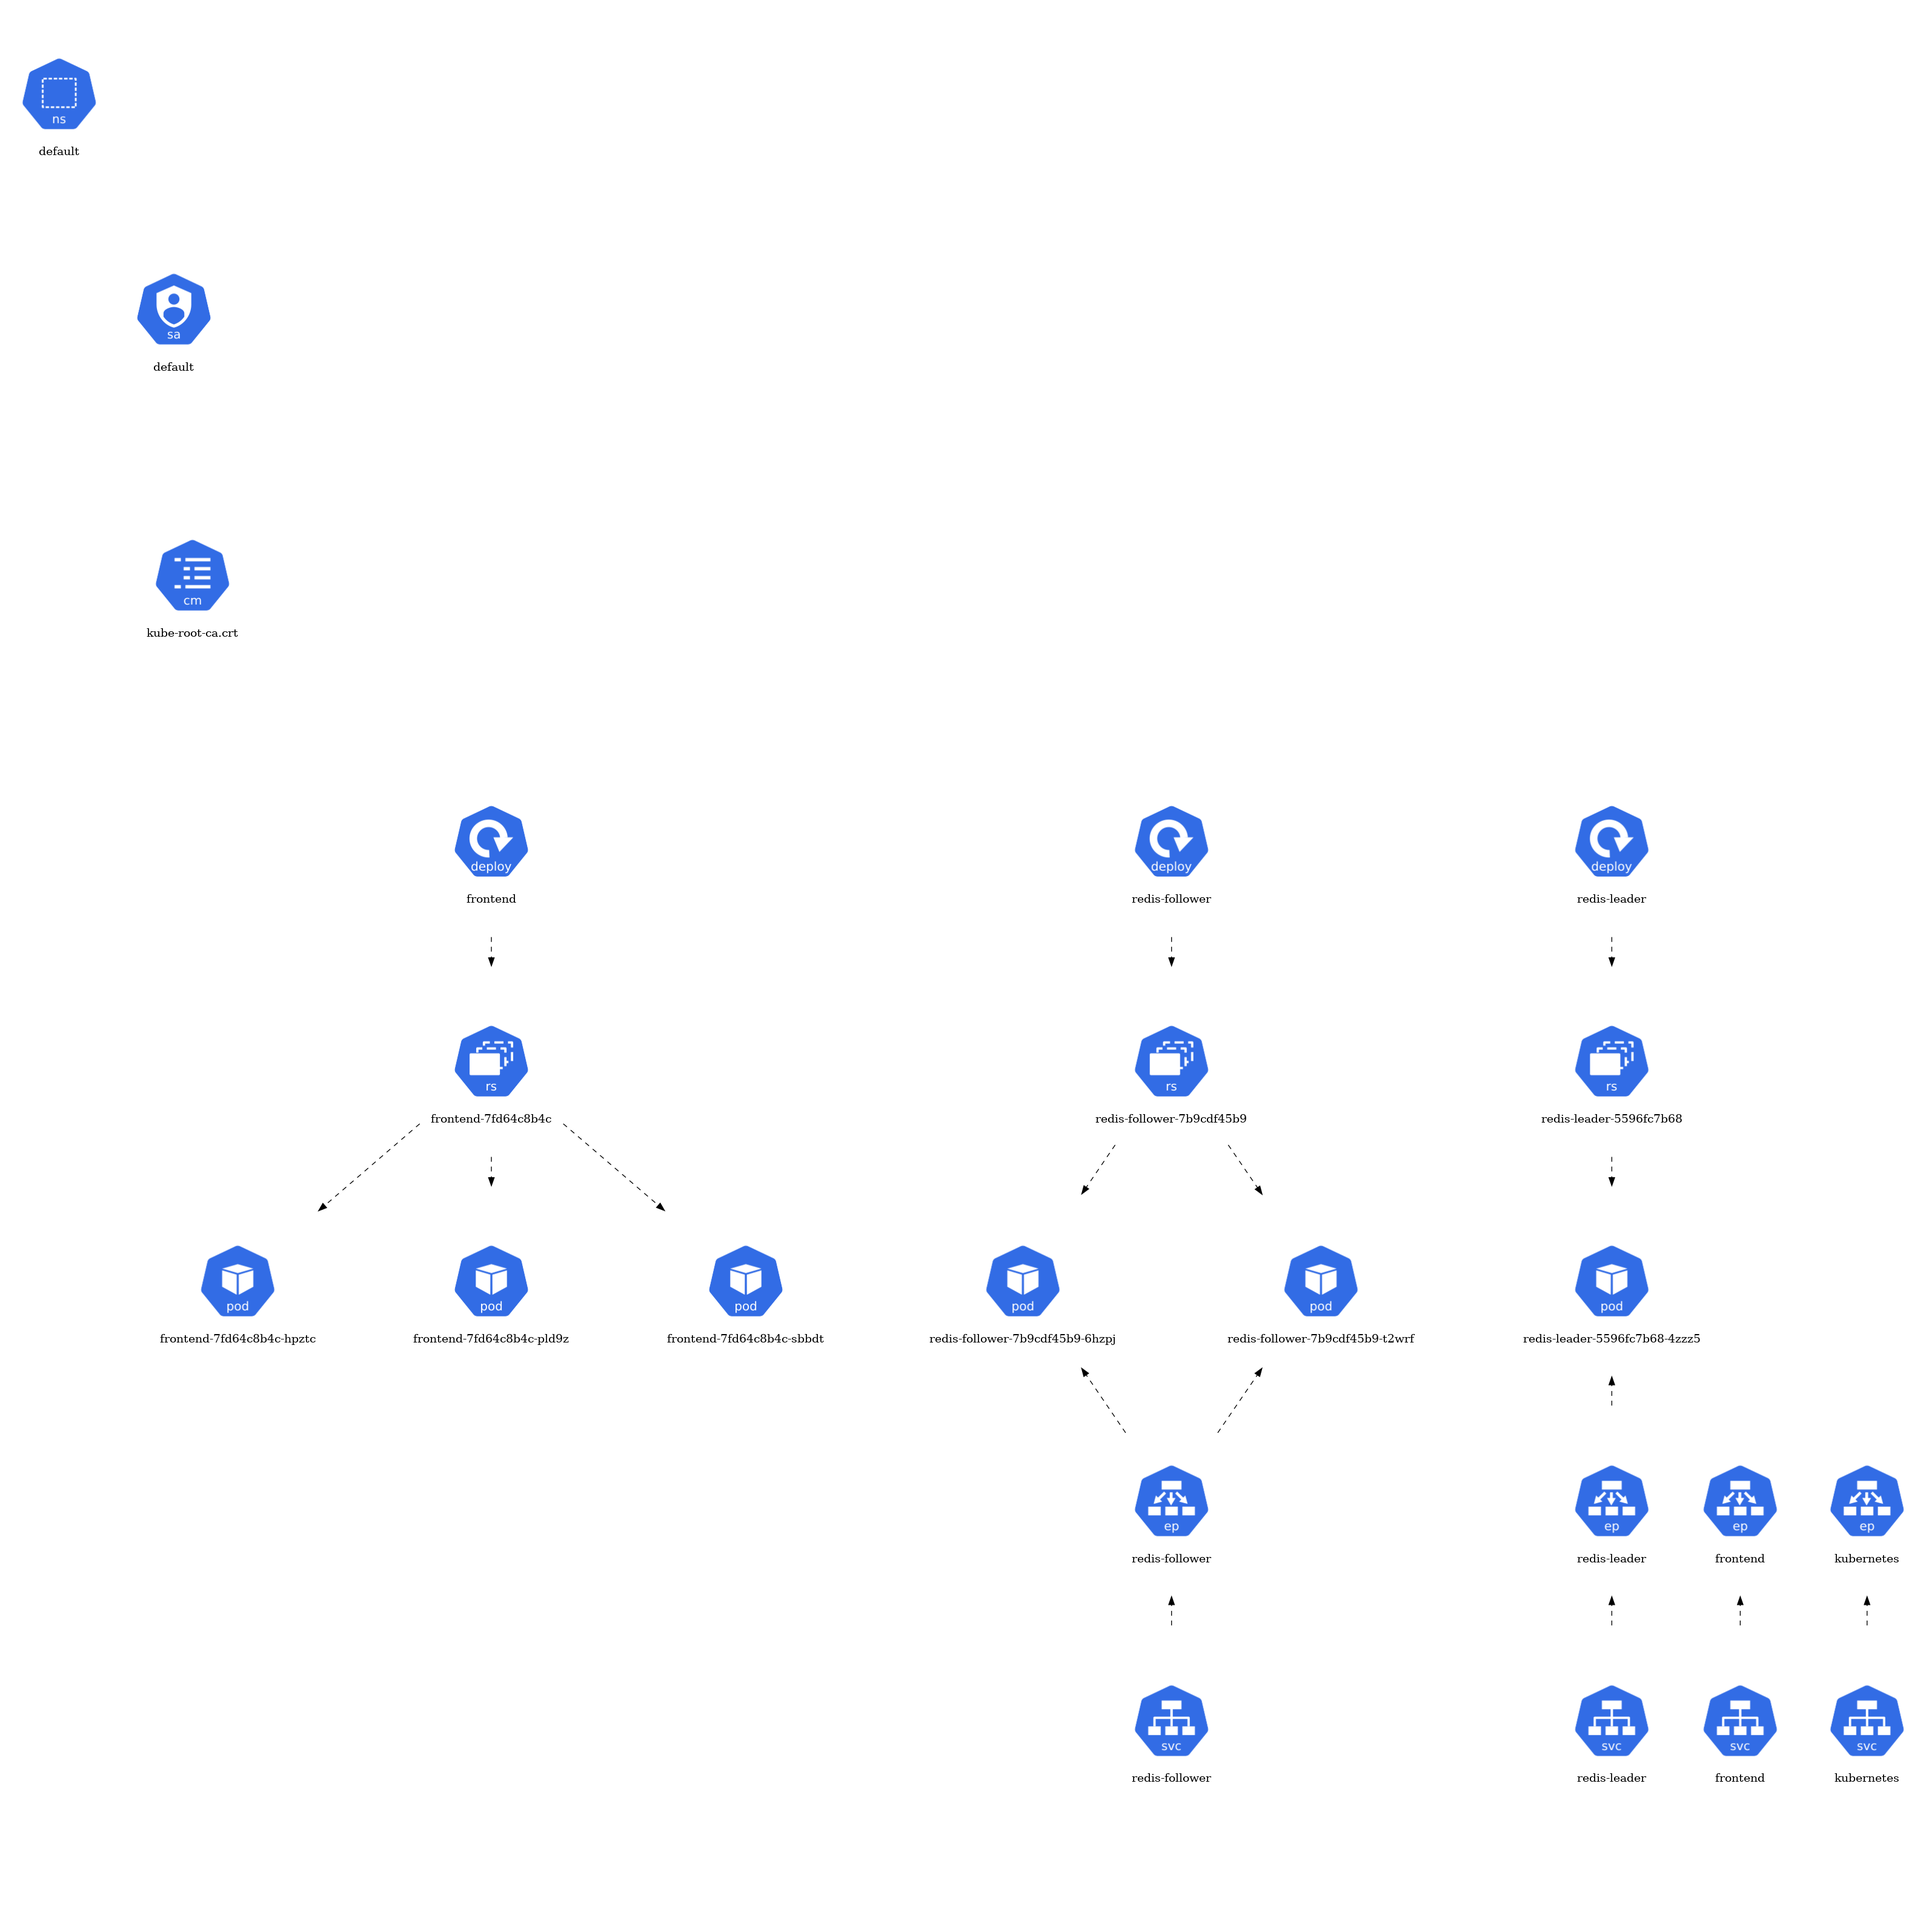
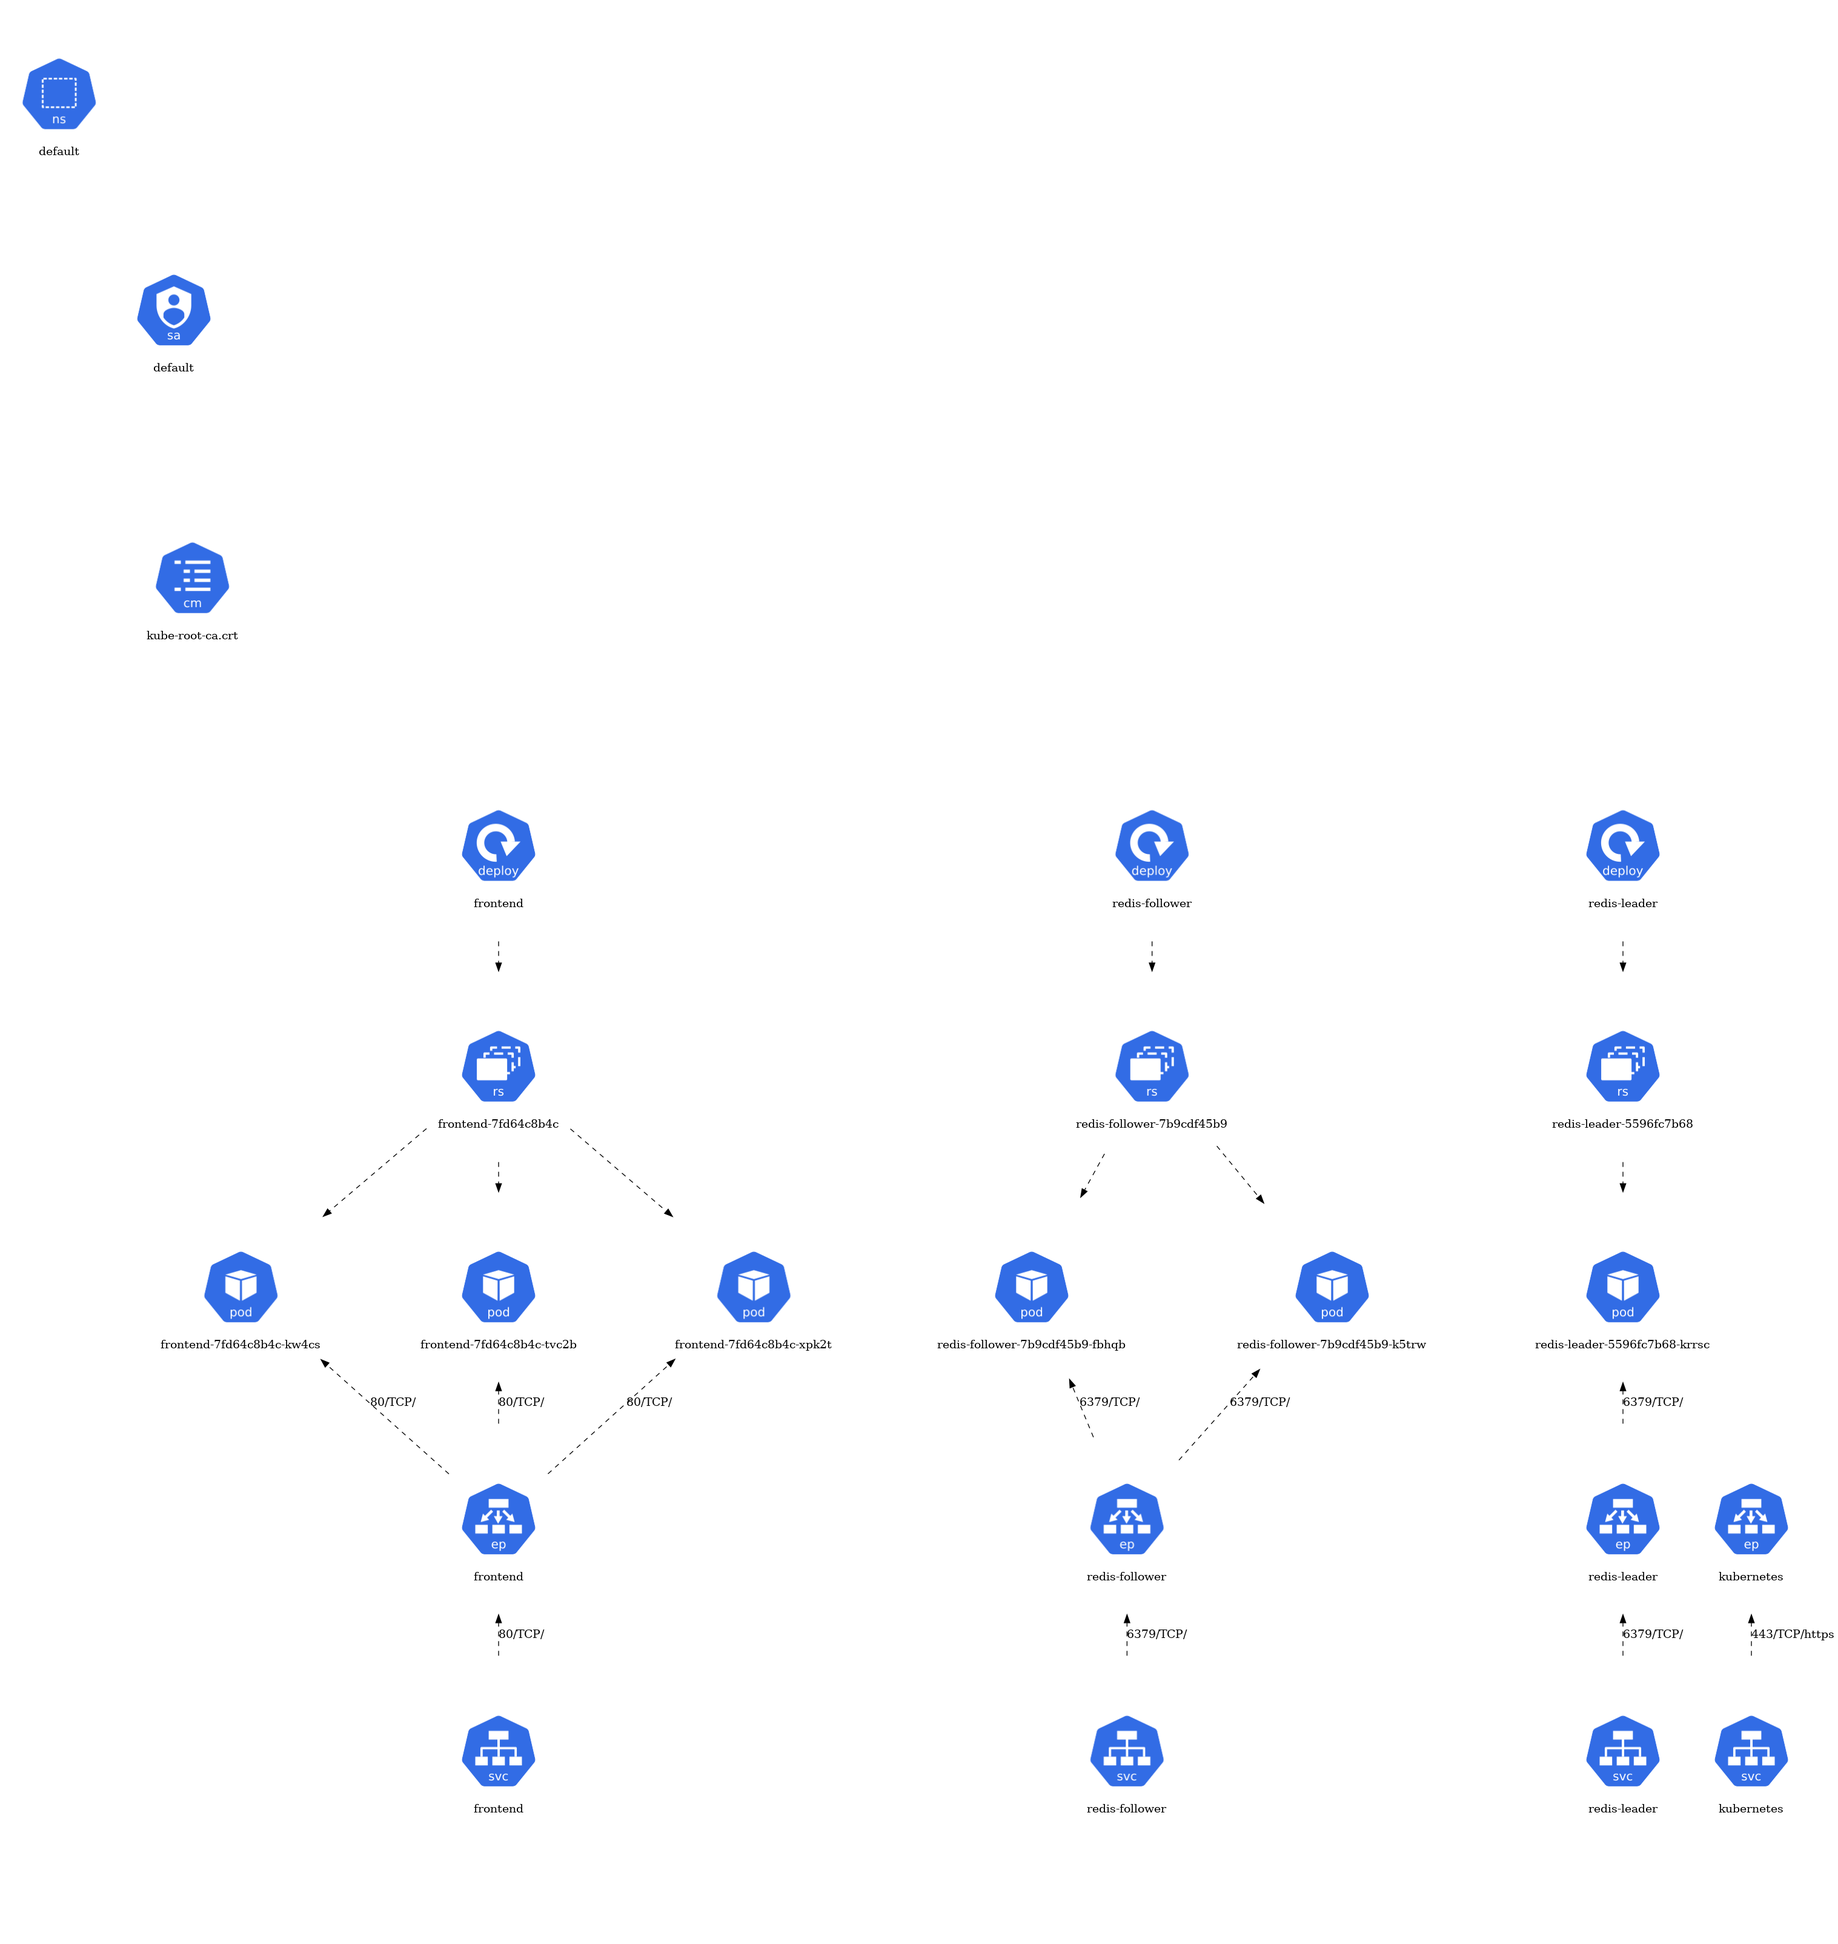
feat: Support labelling the edge between nodes (#20)

diff --git a/pkg/graph/graph.go b/pkg/graph/graph.go
@@ -40,10 +40,17 @@ func NewGraph(a, o string) *Grapher {
 
 // connection is a link between two Kubernetes objects.
 type connection struct {
+	label           string
 	sourceName      string
 	sourceKind      string
 	destinationName string
 	destinationKind string
+}
+
+// sanitizedLabel returns the sanitized label of a connection.
+// The label is wrapped in double quotes.
+func (c *connection) sanitizedLabel() string {
+	return fmt.Sprintf("\"%s\"", c.label)
 }
 
 // getSubgraphName returns the name of a subgraph in a gographviz.Graph.
@@ -149,7 +156,11 @@ func (g *Grapher) Connect() {
 		if _, ok := g.graph.Edges.SrcToDsts[sourceNodeName][dstNodeName]; ok {
 			continue
 		}
-		g.graph.AddEdge(sourceNodeName, dstNodeName, true, map[string]string{"style": "dashed"})
+		attrs := map[string]string{"style": "dashed"}
+		if connection.label != "" {
+			attrs["label"] = connection.sanitizedLabel()
+		}
+		g.graph.AddEdge(sourceNodeName, dstNodeName, true, attrs)
 
 	}
 }
@@ -181,7 +192,19 @@ func (g *Grapher) Populate(objects *unstructured.UnstructuredList, resource conf
 
 		// Services are connected to Endpoints by name.
 		if kind == Service {
+			service := &corev1.Service{}
+			runtime.DefaultUnstructuredConverter.FromUnstructured(object.UnstructuredContent(), service)
+			// Consider two ports:
+			//     - &ServicePort{Name:api,Protocol:TCP,Port:8080,TargetPort:{1 0 api},NodePort:0,AppProtocol:nil,}
+			//     - &ServicePort{Name:metrics,Protocol:TCP,Port:3001,TargetPort:{0 3001 },NodePort:0,AppProtocol:nil,}
+			// Generate a label for the connection:
+			//     8080/TCP/api\n3001/TCP/metrics
+			var connectionLabel string
+			for _, port := range service.Spec.Ports {
+				connectionLabel += fmt.Sprintf("%d/%s/%s\\n", port.Port, port.Protocol, port.Name)
+			}
 			g.connections = append(g.connections, connection{
+				label:           connectionLabel,
 				sourceName:      name,
 				sourceKind:      kind,
 				destinationName: name,
@@ -198,7 +221,17 @@ func (g *Grapher) Populate(objects *unstructured.UnstructuredList, resource conf
 					if address.TargetRef == nil || address.TargetRef.Kind != Pod {
 						continue
 					}
+					// Consider two ports:
+					//     - &EndpointPort{Name:api,Port:8080,Protocol:TCP,AppProtocol:nil,}
+					//     - &EndpointPort{Name:metrics,Port:3001,Protocol:TCP,AppProtocol:nil,}
+					// Generate a label for the connection:
+					//     8080/TCP/api\n3001/TCP/metrics
+					var connectionLabel string
+					for _, port := range subset.Ports {
+						connectionLabel += fmt.Sprintf("%d/%s/%s\\n", port.Port, port.Protocol, port.Name)
+					}
 					g.connections = append(g.connections, connection{
+						label:           connectionLabel,
 						sourceName:      name,
 						sourceKind:      kind,
 						destinationName: address.TargetRef.Name,
@@ -226,6 +259,7 @@ func (g *Grapher) Populate(objects *unstructured.UnstructuredList, resource conf
 						continue
 					}
 					g.connections = append(g.connections, connection{
+						label:           path.Path,
 						sourceName:      name,
 						sourceKind:      kind,
 						destinationName: serviceName,
